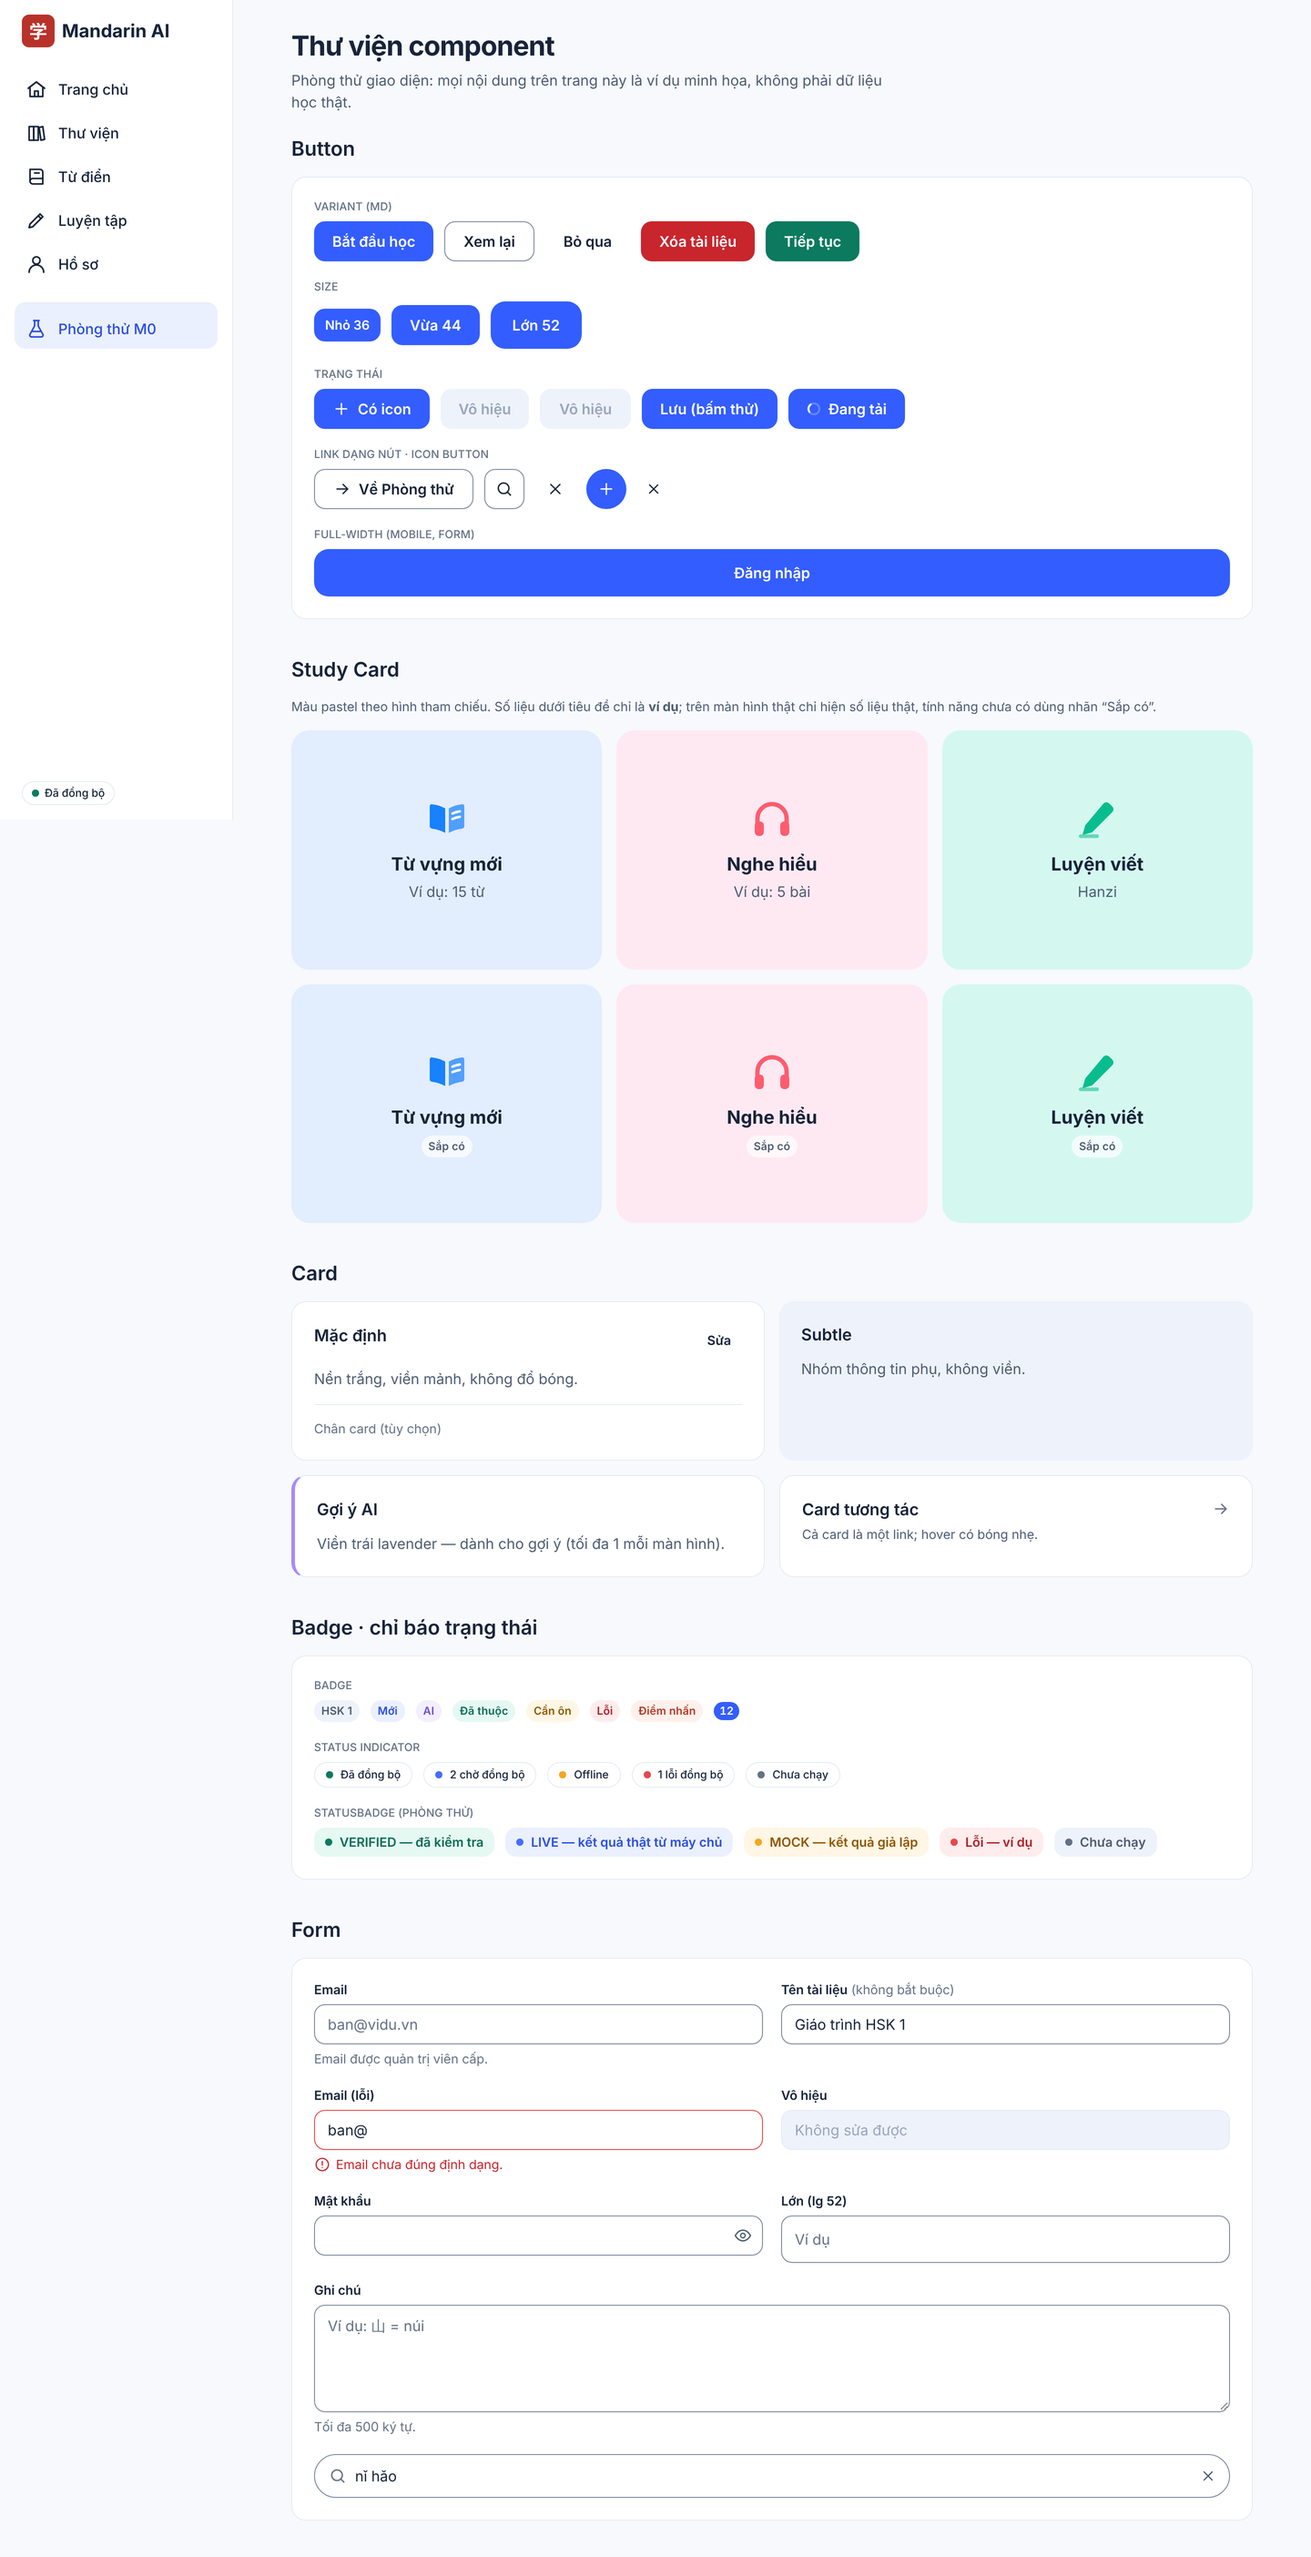
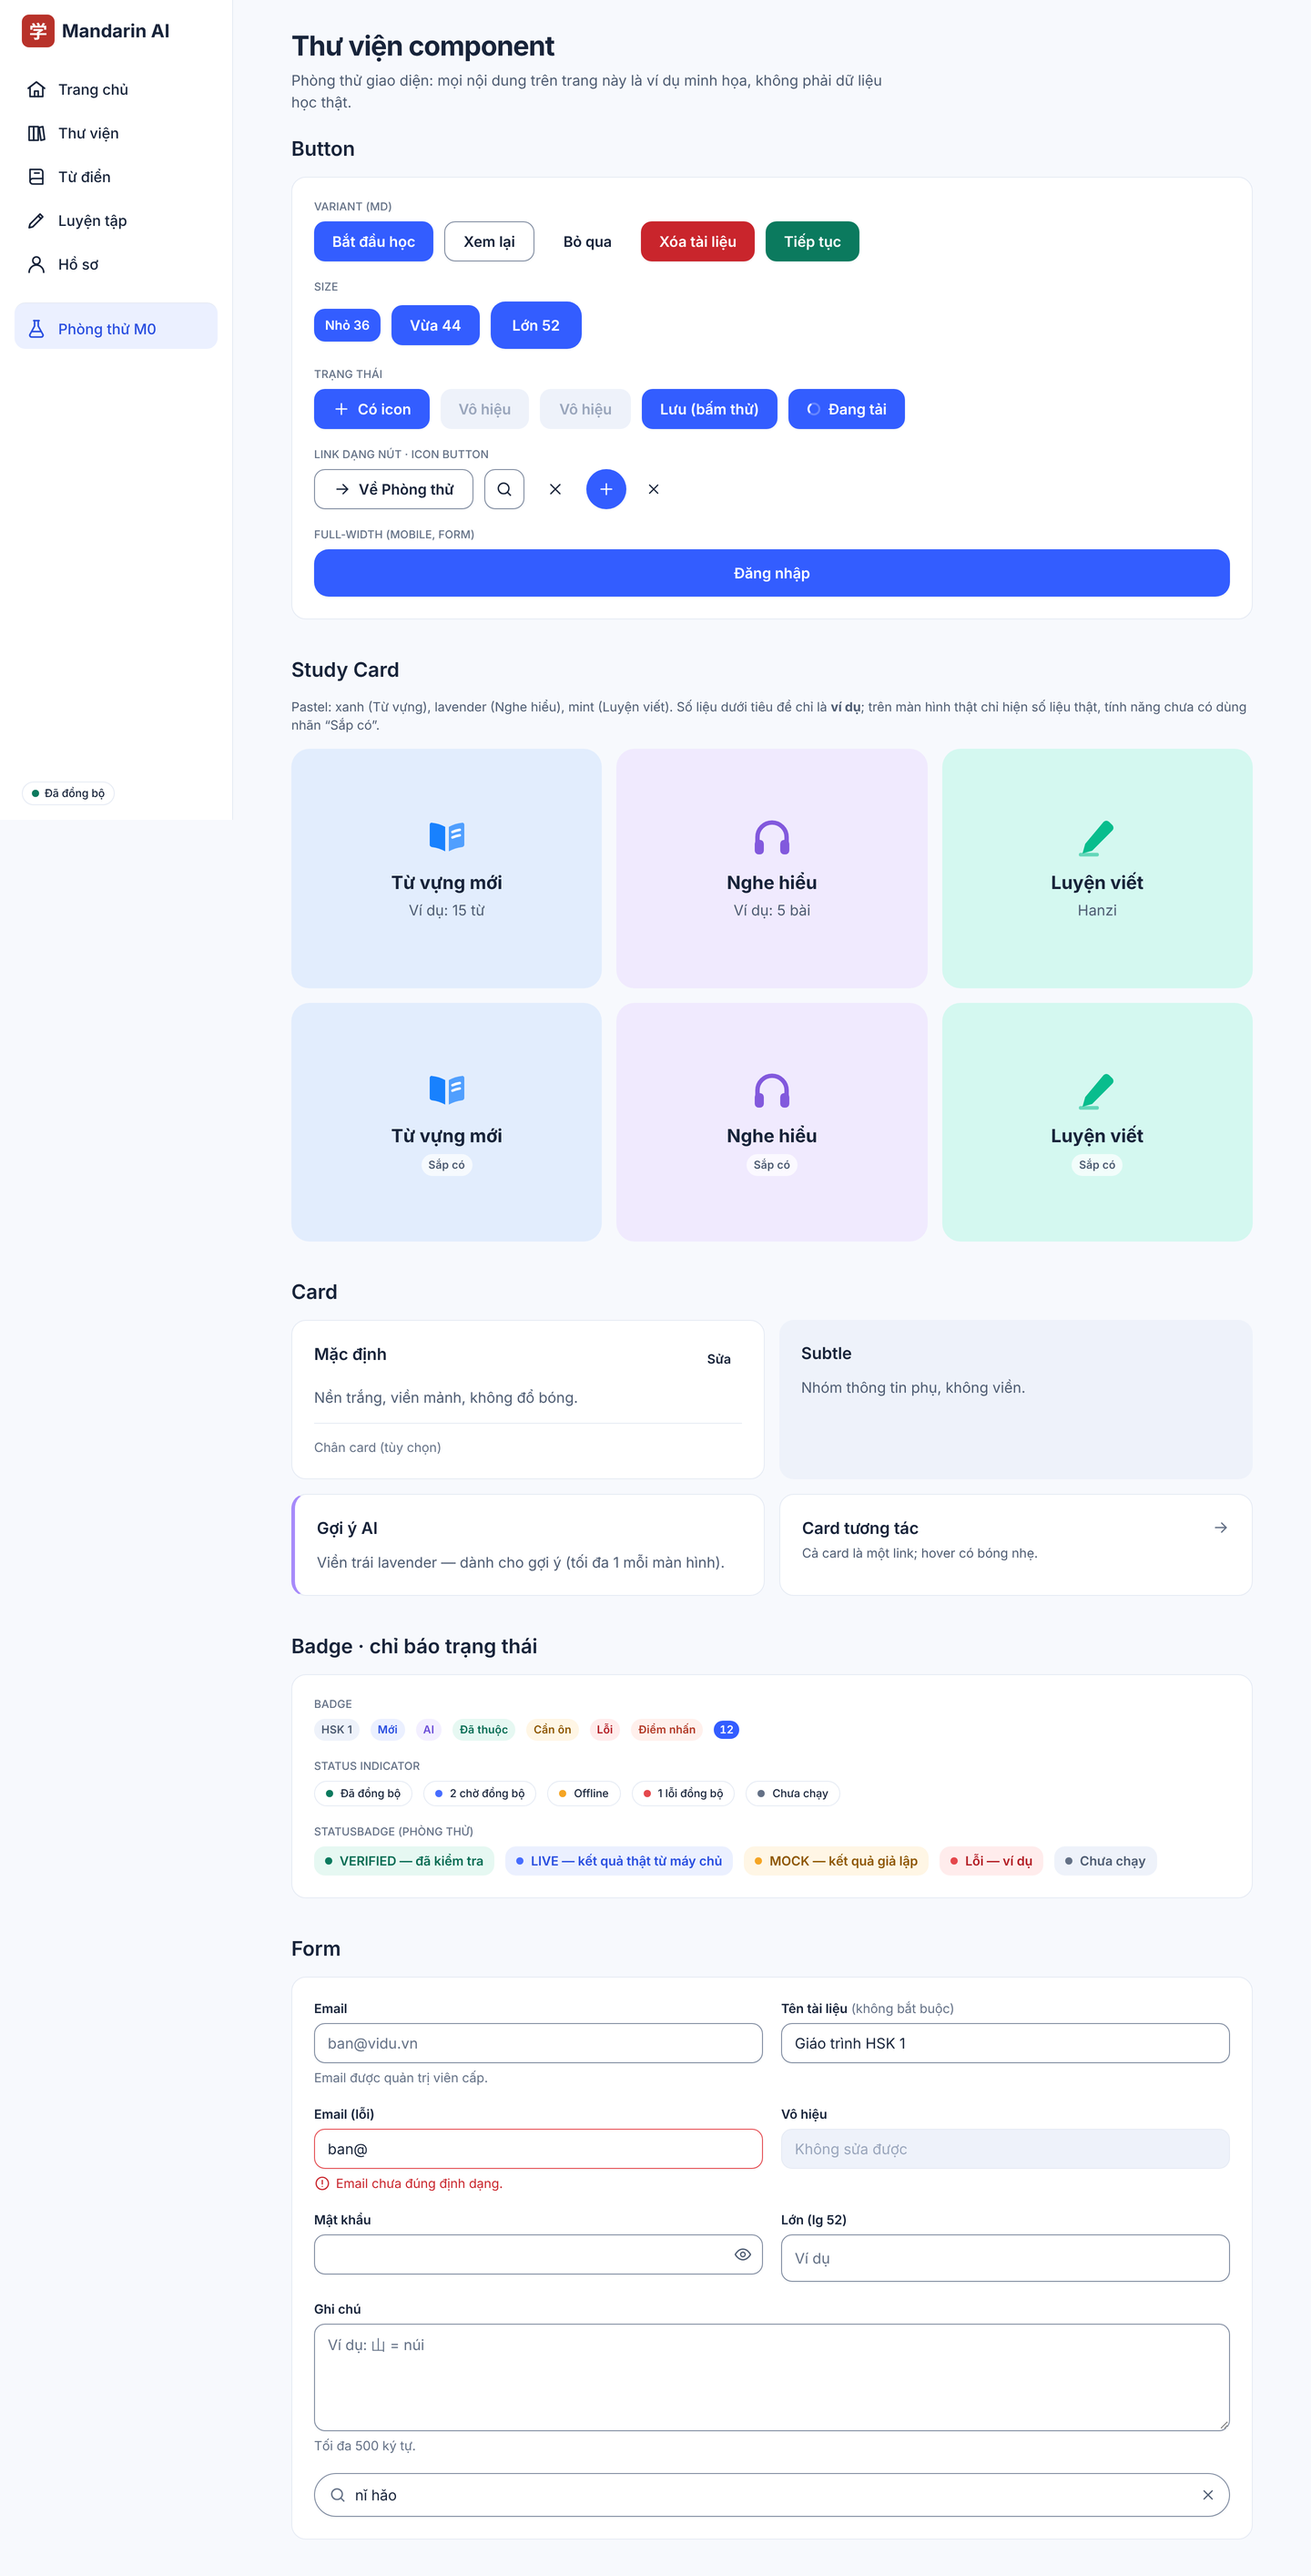
fix(web): UI-2 Study Card 'Nghe hiểu' uses lavender, not rose (owner review)
- Tokens: --study-rose-* -> --study-lavender-bg #F0EAFE / --study-lavender-icon
  #8259DD (icon 4.05:1 on its tile, checked at >= 3:1 in check:contrast;
  title 13.24:1, meta 5.69:1). Blue and mint unchanged.
- StudyTone 'rose' -> 'lavender'; gallery + docs (TOKENS §2.7, COMPONENT_SPEC §9b).
- E2E: lavender colours, hover (hover-capable devices), keyboard focus ring,
  comingSoon tile (not a link, not focusable, 'Sắp có').
- Previews regenerated (study card comparison, galleries, states).

Claude-Session: https://claude.ai/code/session_013LqNKvrEyxwGX4BePDo76f

diff --git a/apps/web/app/lab/design/page.tsx b/apps/web/app/lab/design/page.tsx
@@ -121,8 +121,9 @@ export default function DesignGallery() {
 
         <Section id="study" title="Study Card">
           <p className="text-sm text-fg-muted">
-            Màu pastel theo hình tham chiếu. Số liệu dưới tiêu đề chỉ là <strong>ví dụ</strong>;
-            trên màn hình thật chỉ hiện số liệu thật, tính năng chưa có dùng nhãn “Sắp có”.
+            Pastel: xanh (Từ vựng), lavender (Nghe hiểu), mint (Luyện viết). Số liệu dưới tiêu đề
+            chỉ là <strong>ví dụ</strong>; trên màn hình thật chỉ hiện số liệu thật, tính năng chưa
+            có dùng nhãn “Sắp có”.
           </p>
           <div className="grid grid-cols-2 gap-3 md:grid-cols-3 md:gap-4">
             <StudyCard
@@ -133,11 +134,11 @@ export default function DesignGallery() {
               data-testid="study-blue"
             />
             <StudyCard
-              tone="rose"
+              tone="lavender"
               title="Nghe hiểu"
               meta="Ví dụ: 5 bài"
               href="/lab/design"
-              data-testid="study-rose"
+              data-testid="study-lavender"
             />
             <StudyCard
               tone="mint"
@@ -149,7 +150,12 @@ export default function DesignGallery() {
           </div>
           <div className="grid grid-cols-2 gap-3 md:grid-cols-3 md:gap-4">
             <StudyCard tone="blue" title="Từ vựng mới" comingSoon data-testid="study-soon" />
-            <StudyCard tone="rose" title="Nghe hiểu" comingSoon />
+            <StudyCard
+              tone="lavender"
+              title="Nghe hiểu"
+              comingSoon
+              data-testid="study-lavender-soon"
+            />
             <StudyCard tone="mint" title="Luyện viết" comingSoon />
           </div>
         </Section>

diff --git a/apps/web/e2e/ui2-primitives.spec.ts b/apps/web/e2e/ui2-primitives.spec.ts
@@ -172,3 +172,39 @@ test('study cards stay inside their grid at 320 px (no overlap / clipping)', asy
   expect(a.x + a.width).toBeLessThanOrEqual(b.x);
   expect(a.y).toBe(b.y);
 });
+
+test('study card "Nghe hiểu" is lavender: colours, hover, keyboard focus, coming soon', async ({
+  page,
+}) => {
+  await open(page);
+  const tile = page.getByTestId('study-lavender');
+  await expect(tile).toHaveAccessibleName(/Nghe hiểu/);
+  const colours = await tile.evaluate((el) => ({
+    bg: getComputedStyle(el).backgroundColor,
+    icon: getComputedStyle(el.firstElementChild as Element).color,
+  }));
+  expect(colours).toEqual({ bg: 'rgb(240, 234, 254)', icon: 'rgb(130, 89, 221)' });
+
+  // Hover lift + shadow only where hover exists (Tailwind 4 `hover:` = @media (hover: hover)).
+  if (await page.evaluate(() => matchMedia('(hover: hover)').matches)) {
+    await tile.hover();
+    await expect.poll(() => tile.evaluate((el) => getComputedStyle(el).boxShadow)).not.toBe('none');
+  }
+
+  await tile.focus();
+  await page.keyboard.press('Shift+Tab');
+  await page.keyboard.press('Tab');
+  await expect(tile).toBeFocused();
+  const ring = await tile.evaluate((el) => getComputedStyle(el).outlineStyle);
+  expect(ring).toBe('solid');
+
+  // Coming-soon tile: same lavender, not a link, not focusable, says "Sắp có".
+  const soon = page.getByTestId('study-lavender-soon');
+  expect(await soon.evaluate((el) => el.tagName)).toBe('DIV');
+  await expect(soon).toHaveAttribute('aria-disabled', 'true');
+  await expect(soon).toContainText('Sắp có');
+  expect(await soon.evaluate((el) => getComputedStyle(el).backgroundColor)).toBe(
+    'rgb(240, 234, 254)',
+  );
+  expect(await soon.evaluate((el) => (el as HTMLElement).tabIndex)).toBe(-1);
+});

diff --git a/apps/web/src/design/tokens.css b/apps/web/src/design/tokens.css
@@ -84,13 +84,14 @@
   /*
    * Study cards (UI-2) — pastel tiles measured on the approved reference image
    * (docs/design/reference/visual-reference-v2.webp, "Hôm nay học gì?"). Text on them uses
-   * fg-default / fg-muted (checked in CI). The icon colours are decorative (the card title carries
-   * the meaning, icons are aria-hidden), so WCAG 1.4.11 does not apply; kept as in the reference.
+   * fg-default / fg-muted (checked in CI). Icons are decorative (aria-hidden, the title carries the
+   * meaning); blue/mint are kept as in the reference, lavender is checked at ≥ 3:1 in CI.
    */
   --study-blue-bg: #e2edfd;
   --study-blue-icon: #1881fe;
-  --study-rose-bg: #fee9f2;
-  --study-rose-icon: #fd5c6f;
+  /* "Nghe hiểu" = lavender (owner decision, UI-2 review): icon ≥ 3:1 on its tile */
+  --study-lavender-bg: #f0eafe;
+  --study-lavender-icon: #8259dd;
   --study-mint-bg: #d4f8f0;
   --study-mint-icon: #08bd8d;
 

diff --git a/apps/web/src/components/ui/Card.tsx b/apps/web/src/components/ui/Card.tsx
@@ -123,10 +123,14 @@ export function CardLink({
 
 /* ---------- Study Card (pastel tiles of the reference "Hôm nay học gì?") ---------- */
 
-export type StudyTone = 'blue' | 'rose' | 'mint';
+export type StudyTone = 'blue' | 'lavender' | 'mint';
 const STUDY: Record<StudyTone, { bg: string; icon: string; Icon: typeof BookOpenFilledIcon }> = {
   blue: { bg: 'bg-study-blue', icon: 'text-study-blue-icon', Icon: BookOpenFilledIcon },
-  rose: { bg: 'bg-study-rose', icon: 'text-study-rose-icon', Icon: HeadphonesFilledIcon },
+  lavender: {
+    bg: 'bg-study-lavender',
+    icon: 'text-study-lavender-icon',
+    Icon: HeadphonesFilledIcon,
+  },
   mint: { bg: 'bg-study-mint', icon: 'text-study-mint-icon', Icon: PencilFilledIcon },
 };
 

diff --git a/apps/web/app/globals.css b/apps/web/app/globals.css
@@ -70,8 +70,8 @@
   /* Study cards (pastel tiles from the reference) */
   --color-study-blue: var(--study-blue-bg);
   --color-study-blue-icon: var(--study-blue-icon);
-  --color-study-rose: var(--study-rose-bg);
-  --color-study-rose-icon: var(--study-rose-icon);
+  --color-study-lavender: var(--study-lavender-bg);
+  --color-study-lavender-icon: var(--study-lavender-icon);
   --color-study-mint: var(--study-mint-bg);
   --color-study-mint-icon: var(--study-mint-icon);
 

diff --git a/docs/design/COMPONENT_SPEC_V2.md b/docs/design/COMPONENT_SPEC_V2.md
@@ -117,7 +117,7 @@ Trạng thái: **ĐÃ DUYỆT 2026-11-24** (D-039). UI-2 đã triển khai Butto
 ## 9b. Study Card (UI-2, theo hình tham chiếu)
 
 - **Mục đích:** ô lối vào nhanh cho một kỹ năng ("Hôm nay học gì?"): Từ vựng mới · Nghe hiểu · Luyện viết.
-- **Style:** nền pastel `study.blue` `#E2EDFD` / `study.rose` `#FEE9F2` / `study.mint` `#D4F8F0`, icon đặc cùng tông (`#1881FE` / `#FD5C6F` / `#08BD8D`, trang trí, `aria-hidden`), radius 20, tỉ lệ ≈ 13:10, nội dung căn giữa; tiêu đề 18/700 (20 từ tablet), dòng phụ `fg.muted`. Không viền, không bóng; hover (khi là link): nhích lên 2 px + `shadow.md` (tắt khi reduced-motion).
+- **Style:** nền pastel `study.blue` `#E2EDFD` / `study.lavender` `#F0EAFE` (Nghe hiểu — chủ dự án chốt lavender, không dùng hồng/coral) / `study.mint` `#D4F8F0`, icon đặc cùng tông (`#1881FE` / `#8259DD` / `#08BD8D`, trang trí, `aria-hidden`; lavender đạt 4.05:1 trên nền), radius 20, tỉ lệ ≈ 13:10, nội dung căn giữa; tiêu đề 18/700 (20 từ tablet), dòng phụ `fg.muted`. Không viền, không bóng; hover (khi là link): nhích lên 2 px + `shadow.md` (tắt khi reduced-motion).
 - **Dữ liệu:** dòng phụ chỉ nhận số liệu thật; tính năng chưa có → `comingSoon` (nhãn "Sắp có", không phải link). Không bao giờ hiện số giả.
 - **Responsive:** 2 cột trên điện thoại (kể cả 320 px), 3 cột từ 768.
 - **A11y:** cả ô là một link (một vùng bấm), tên truy cập = tiêu đề + dòng phụ.
